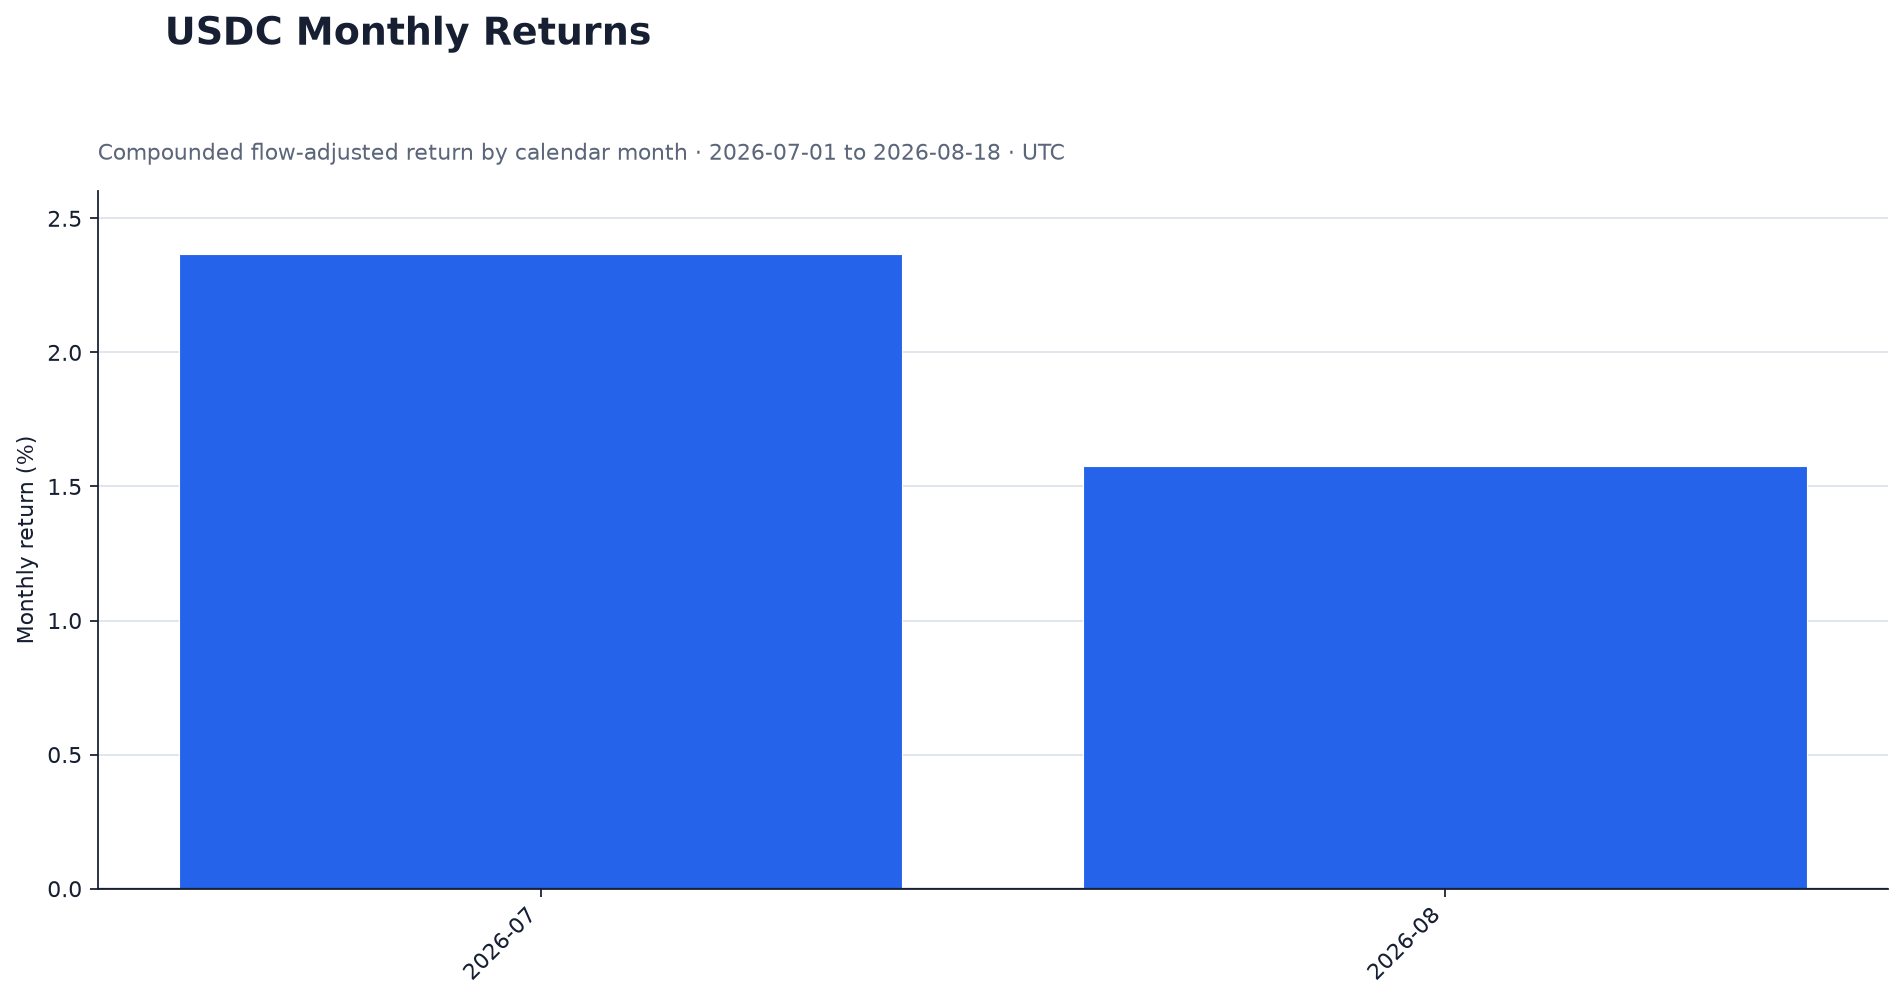
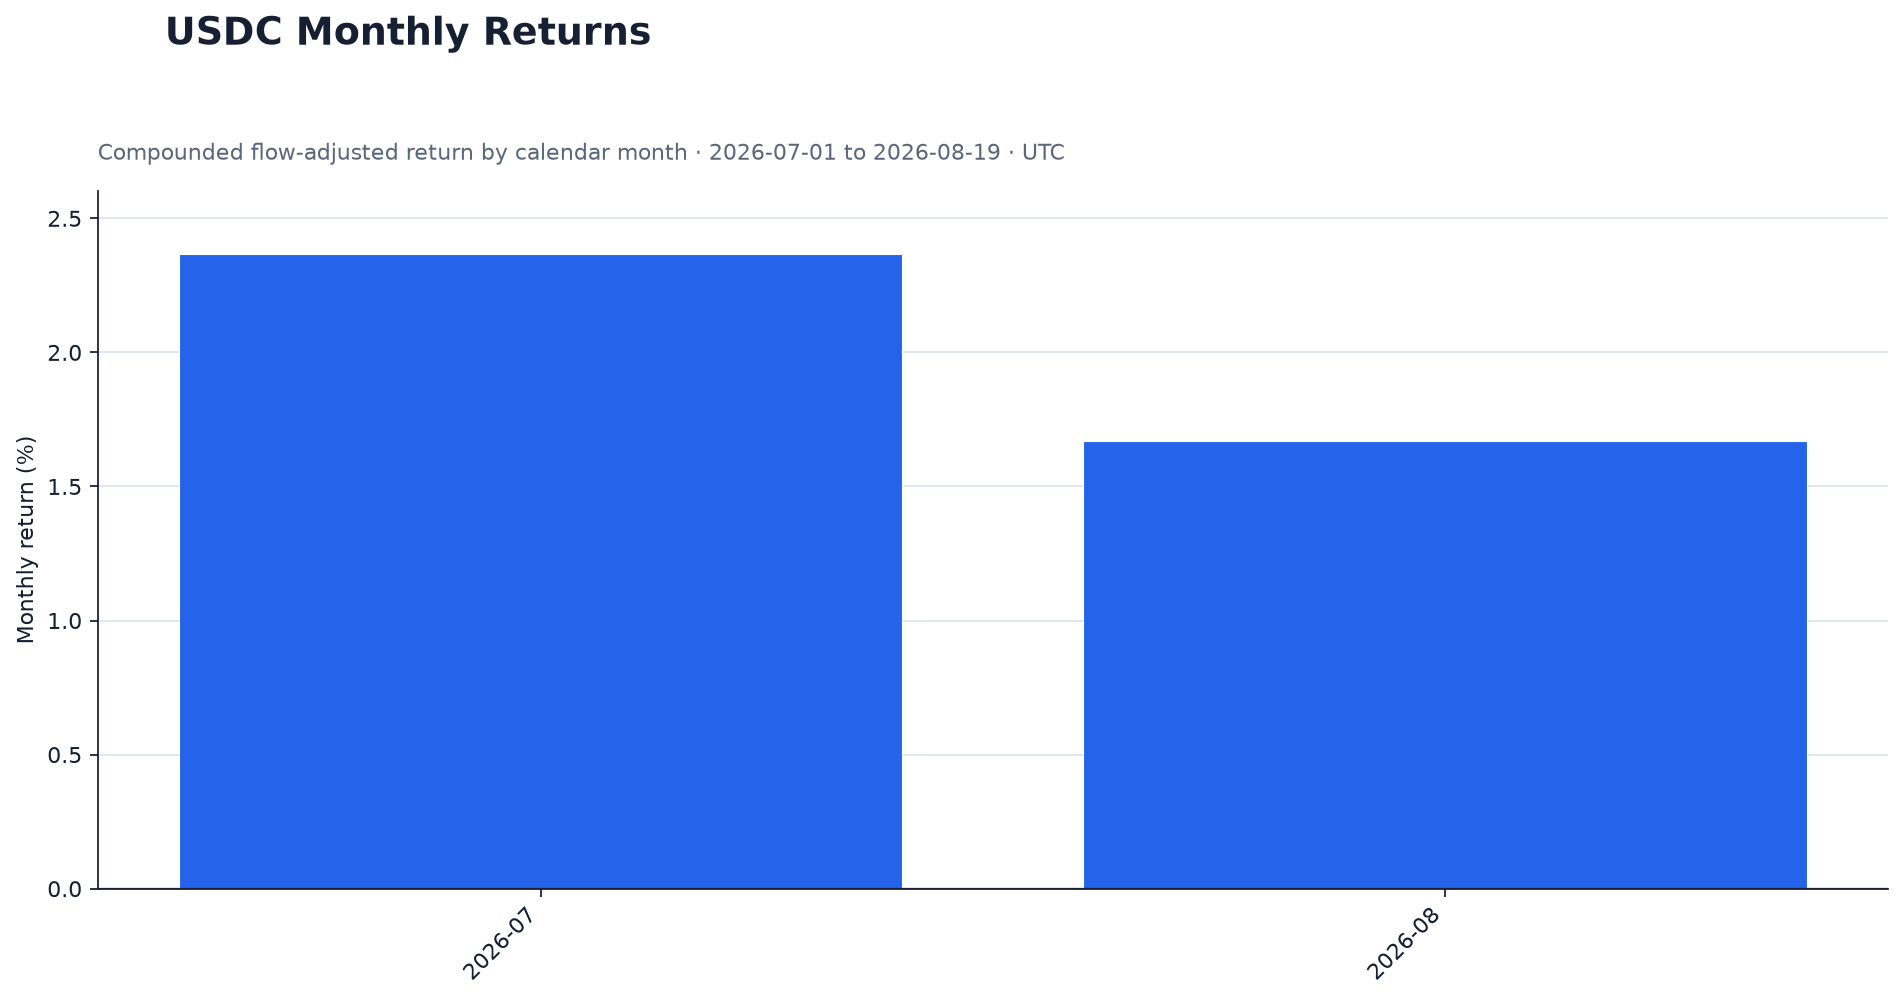
chore: update USDC performance

Changed region(s): [[0.5578, 0.4336, 0.9606, 0.4645]]

diff --git a/reports/performance_summary.md b/reports/performance_summary.md
@@ -1,7 +1,7 @@
 # Performance Summary
 
-Generated at: **2026-08-18T00:10:07Z**<br>
-Coverage: **2026-07-01 to 2026-08-18 (UTC)**<br>
+Generated at: **2026-08-19T00:10:09Z**<br>
+Coverage: **2026-07-01 to 2026-08-19 (UTC)**<br>
 Scope: **Daily USDC USD-M Futures realized performance**
 
 Absolute account values are not published. USD-M Futures transfers are excluded from trading return.
@@ -9,23 +9,23 @@ Sharpe and Sortino use private total daily returns including unrealized PnL; unr
 
 | Metric | Value |
 |---|---:|
-| Cumulative Return | 3.98% |
+| Cumulative Return | 4.08% |
 | Latest Daily Return | 0.00% |
-| Annualized Return | 36.31% |
-| Annualized Volatility | 1.28% |
-| Sharpe Ratio | 6.347997 |
-| Sortino Ratio | 11.420464 |
+| Annualized Return | 36.37% |
+| Annualized Volatility | 1.26% |
+| Sharpe Ratio | 6.416499 |
+| Sortino Ratio | 11.555649 |
 | Maximum Drawdown | -0.01% |
-| Calmar Ratio | 3975.176428 |
-| Win Rate | 97.50% |
-| Profit Factor | 1617.936180 |
-| Total Realized Pnl Usdc | 175.463299 |
+| Calmar Ratio | 3982.316037 |
+| Win Rate | 97.62% |
+| Profit Factor | 1656.808833 |
+| Total Realized Pnl Usdc | 179.709699 |
 | Total Commission Usdc | -0.075227 |
-| Total Funding Fee Usdc | 1.751071 |
-| Total Net Pnl Usdc | 177.139142 |
-| Number Of Trading Days | 40 |
-| Number Of Trades | 1243 |
-| Valid Return Days | 46 |
+| Total Funding Fee Usdc | 1.763261 |
+| Total Net Pnl Usdc | 181.397732 |
+| Number Of Trading Days | 42 |
+| Number Of Trades | 1283 |
+| Valid Return Days | 47 |
 | Excluded Return Days | 3 |
 | Annualization Factor | 365 |
 
